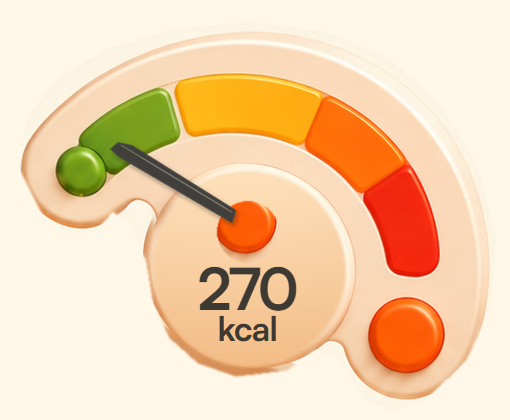
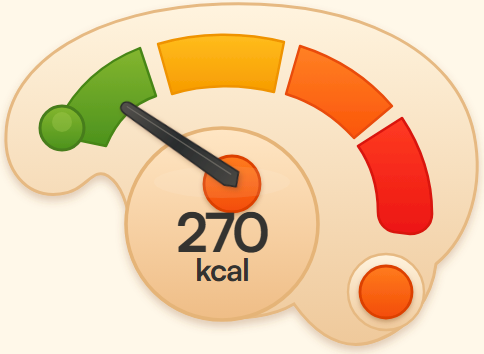
fix(food-portrait): align gauge border and needle geometry

diff --git a/docs/food-portrait-pipeline/candidates/deterministic-gauge-motion-preview.html b/docs/food-portrait-pipeline/candidates/deterministic-gauge-motion-preview.html
@@ -4,25 +4,25 @@
 <title>MealUp gauge deterministico mobile</title>
 <style>
   @font-face{font-family:Satoshi;src:url('../../../G9/fonts/Satoshi-Bold.woff2') format('woff2');font-weight:700}
-  html,body{margin:0;width:510px;height:420px;overflow:hidden;background:#fff8e9}
-  .gauge{position:relative;width:510px;height:420px}
-  .layer{position:absolute;inset:0;width:510px;height:420px}
-  .needle{transform-origin:248px 232px;transition:transform 220ms cubic-bezier(.2,0,0,1)}
-  .value,.unit{position:absolute;left:154px;width:186px;text-align:center;color:#3d3933;font-family:Satoshi,Arial,sans-serif;font-weight:700;line-height:1}
-  .value{top:259px;font-size:58px;letter-spacing:-2px}
-  .unit{top:311px;font-size:34px;letter-spacing:-1px}
+  html,body{margin:0;width:484px;height:354px;overflow:hidden;background:#fff8e9}
+  .gauge{position:relative;width:484px;height:354px}
+  .layer{position:absolute;inset:0;width:484px;height:354px}
+  .needle{transform-origin:232px 184px;transition:transform 220ms cubic-bezier(.2,0,0,1)}
+  .value,.unit{position:absolute;left:126px;width:192px;text-align:center;color:#343330;font-family:Satoshi,Arial,sans-serif;font-weight:700;line-height:1}
+  .value{top:204px;font-size:54px;letter-spacing:-2px}
+  .unit{top:254px;font-size:31px;letter-spacing:-1px}
   @media (prefers-reduced-motion:reduce){.needle{transition-duration:0ms}}
 </style>
 <div class="gauge" role="img" aria-live="polite">
-  <img class="layer" src="../../../tools/food-portrait-pipeline/assets/gauge-shell-canonical.png" alt="">
-  <img class="layer needle" src="../../../tools/food-portrait-pipeline/assets/gauge-needle-canonical.png" alt="">
+  <img class="layer" src="../../../tools/food-portrait-pipeline/assets/gauge-shell-canonical-v2.svg" alt="">
+  <img class="layer needle" src="../../../tools/food-portrait-pipeline/assets/gauge-needle-canonical-v2.svg" alt="">
   <div class="value"></div><div class="unit">kcal</div>
 </div>
 <script>
   const params=new URLSearchParams(location.search),kcal=Math.max(0,Number(params.get('kcal')||270));
-  const clamped=Math.min(1000,kcal),target=-60+(clamped/1000)*120,source=-27.6;
+  const clamped=Math.min(1000,kcal),target=-60+(clamped/1000)*120,source=-14.4;
   const contractDelta=target-source;
-  const visualScale=contractDelta<0?14/(source-(-48.6)):121/(57-source),delta=contractDelta*visualScale;
+  const visualScale=contractDelta<0?19/(source-(-48.6)):116/(57-source),delta=contractDelta*visualScale;
   const zone=clamped<200?'GREEN':clamped<400?'LIME':clamped<600?'YELLOW':clamped<800?'ORANGE':'RED';
   document.querySelector('.needle').style.transform=`rotate(${delta}deg)`;
   document.querySelector('.value').textContent=String(kcal);

diff --git a/docs/food-portrait-pipeline/OPERATIONS.md b/docs/food-portrait-pipeline/OPERATIONS.md
@@ -942,3 +942,11 @@ Stop immediato su mismatch ID, vessel ignoto, asset o hash golden non verificabi
 - Causa verificata: shell a risoluzione nativa e ombra residua incorporata nel layer raster estratto della lancetta.
 - Candidate v2: shell e lancetta a `1020×840`, quadrante centrale ripulito, perno fisso completo e stelo antialias separato; la rotazione non trasporta più pixel della posizione precedente.
 - QA visuale ripetuto a `95`, `270` e `975 kcal`: lancetta rispettivamente nel verde, posa canonica e rosso; nessun freeze automatico, approvazione owner ancora necessaria.
+
+### Correzione owner candidate dinamica v3
+
+- Candidate v2 respinta: bordo esterno irregolare e lancetta non coerente per forma e posa con i gauge Food Portrait precedenti.
+- Il riferimento proprietario `Screenshot 2026-10-18 101907.png` (380 kcal) è ora autorità geometrica esplicita, non semplice riferimento di stile.
+- Candidate v3: housing vettoriale continuo con bordi regolari e un solo stelo vettoriale di forma fissa; durante la microanimazione cambia esclusivamente la rotazione attorno al perno `[232,184]`.
+- Calibrazione visuale verificata a `95`, `380` e `975 kcal`: verde, posa del riferimento e rosso. Nessun alone raster della posizione precedente è possibile nei due layer vettoriali separati.
+- Stato: `DYNAMIC_COMPONENT_CANDIDATE_V3_QA_PASS`; nessun freeze automatico. Resta obbligatoria l'approvazione visiva esplicita del proprietario.
